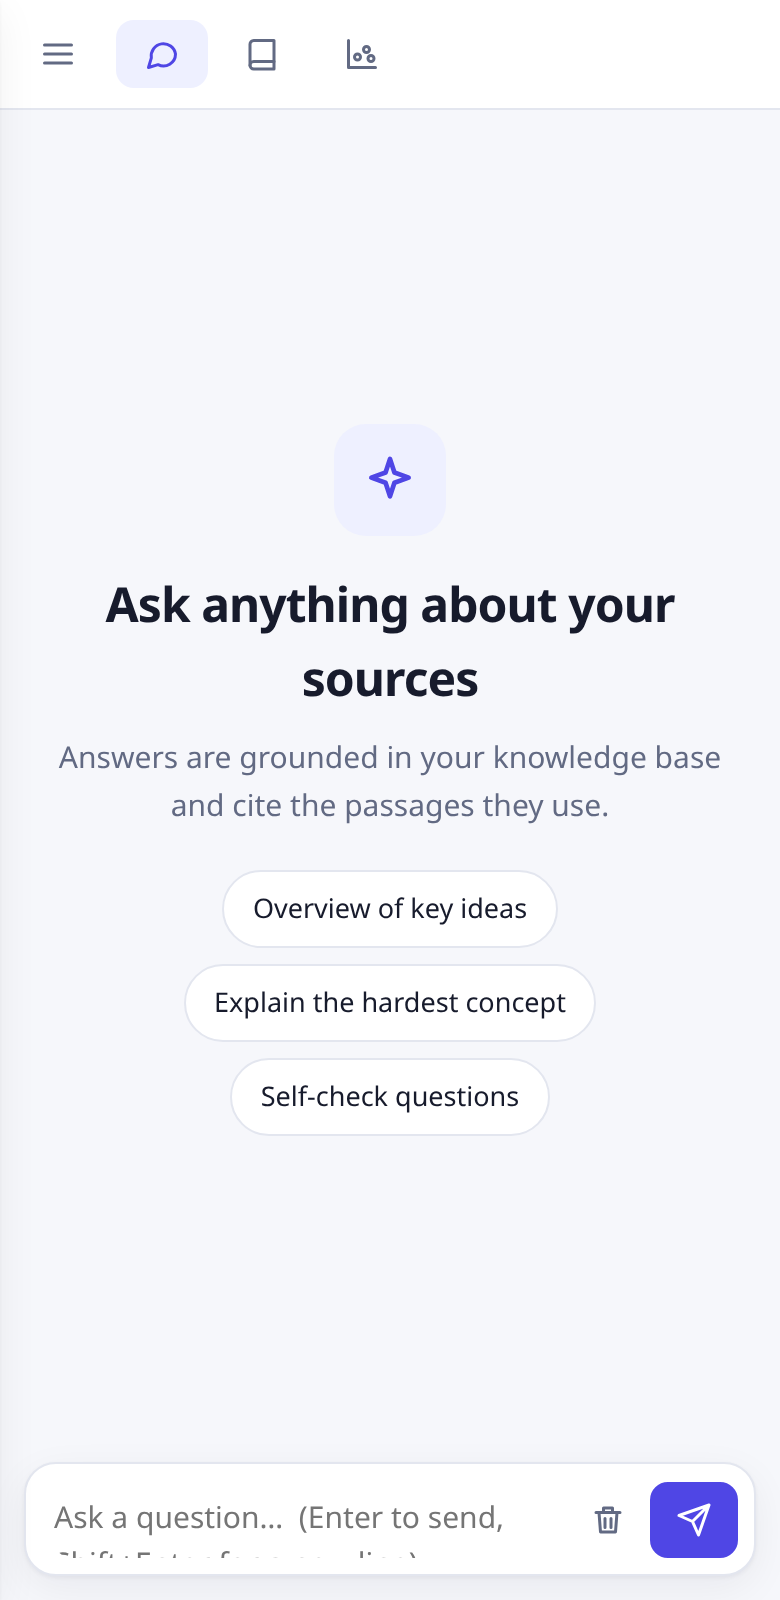
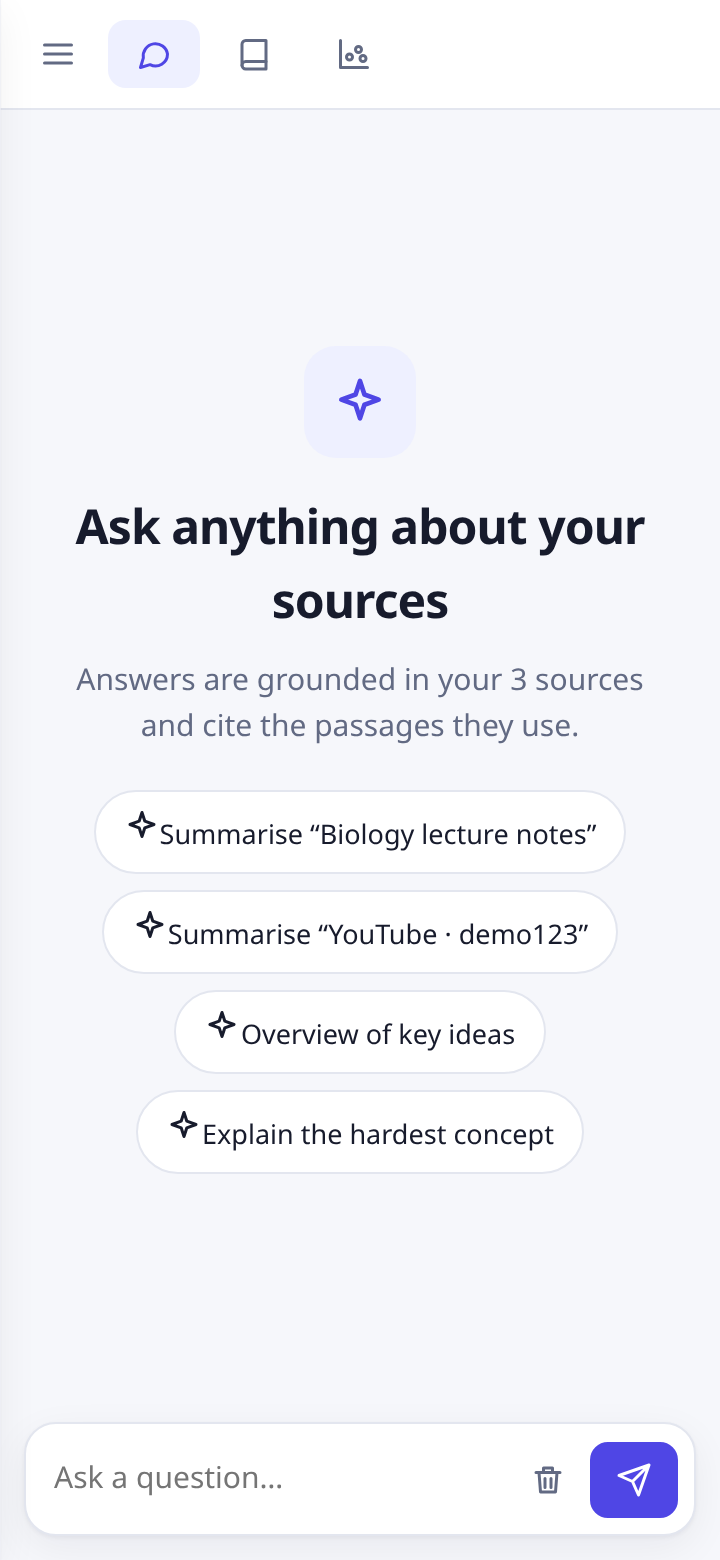
docs: refresh screenshots (light/dark, 360/768/1280) and README UI section

diff --git a/README.md b/README.md
@@ -8,19 +8,27 @@ transcripts, pasted text, PDFs, Markdown, audio, video and images), then chat wi
 answers. It can also produce summaries, flashcards, quizzes, Mermaid flowcharts, entity lists and topic
 clusters. Gemini handles embeddings and generation.
 
-![Chat with citations](docs/screenshot-chat.png)
+![Streaming chat with citation preview](docs/screenshot-chat-light.png)
 
-| Study tools (dark) | Mobile |
-|---|---|
-| ![Study tools](docs/screenshot-tools-dark.png) | ![Mobile](docs/screenshot-mobile.png) |
+| Quiz with scoring (dark) | Flowchart viewer | Flashcards |
+|---|---|---|
+| ![Quiz](docs/screenshot-quiz-dark.png) | ![Flowchart](docs/screenshot-flowchart-light.png) | ![Flashcards](docs/screenshot-flashcards-dark.png) |
+
+| Mobile (360 px) | Mobile sidebar | Tablet (768 px) |
+|---|---|---|
+| ![Mobile](docs/screenshot-mobile.png) | ![Mobile sidebar](docs/screenshot-mobile-sidebar.png) | ![Tablet](docs/screenshot-tablet.png) |
+
+The screenshots use a demo server with a mocked model, so the answers in them are illustrative.
 
 ## Features
 
 - **Ingestion:** web pages (SSRF-guarded, re-checked on every redirect), YouTube transcripts, text, `.txt`/`.md`, PDFs (PyMuPDF, with a Gemini fallback for scanned files), and audio, video and images (Gemini file API).
 - **Hybrid retrieval:** BM25 and dense (FAISS or Qdrant) scores are fused with weights. An optional Gemini re-rank step follows. Chunks are deduplicated by content hash.
 - **Grounded chat:** answers carry `[n]` citations that link to source snippets. Multi-turn history is stored in the browser (localStorage), and you can scope a chat to a single source.
-- **Study tools:** summary, flashcards, quiz, Mermaid flowchart, entity extraction and topic clustering (k-means plot).
-- **UI:** vanilla JS with no build step. It includes light and dark themes, drag-and-drop upload, toasts, skeleton loaders and a responsive mobile drawer. Markdown is rendered XSS-safely, and Mermaid runs with `securityLevel: strict`.
+- **Study tools:** summary; a scored multiple-choice quiz with explanations and review (`mock_test` is an alias); a flip-card flashcard deck with progress, shuffle and keyboard control; Mermaid flowcharts and mind maps with zoom, pan, fit, and SVG/PNG export; storyboard; study plan; entity extraction and topic clustering (k-means plot).
+- **Chat UI:** answers stream token by token over Server-Sent Events (`/api/chat/stream`), and you can stop them. Each message has copy and regenerate buttons and a timestamp. Hovering or focusing a `[n]` citation previews its passage. Passages the answer did not cite are dimmed, and an answer that cites none is flagged "Not from your sources". Suggested questions are built from your latest sources. The view scrolls with the stream only while you are at the bottom; otherwise a "Latest" button appears.
+- **UI:** vanilla JS with no build step. It has light and dark themes (the choice is saved and defaults to the system setting), drag-and-drop upload, toasts, skeleton loaders, and empty and error states with retry. Layouts are responsive from 360 px phones to desktops. It includes a skip link, ARIA tabs, live regions and labelled controls. Markdown is rendered XSS-safely, Mermaid runs with `securityLevel: strict`, and there are no inline scripts, so the CSP `script-src 'self'` holds.
+- **Keyboard shortcuts:** `/` focuses the composer, `Ctrl/⌘+K` adds a link, `Alt+1..3` switches tabs, `Esc` stops generation, `Space` and `←`/`→` drive the flashcards, and `?` lists all the shortcuts.
 
 ## Architecture
 
